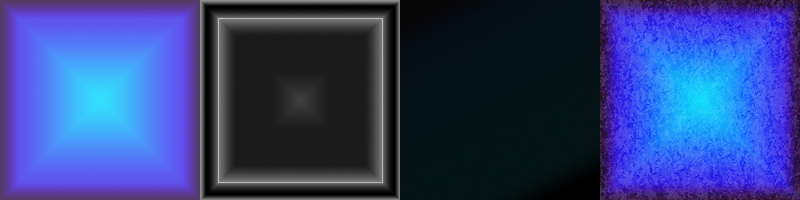
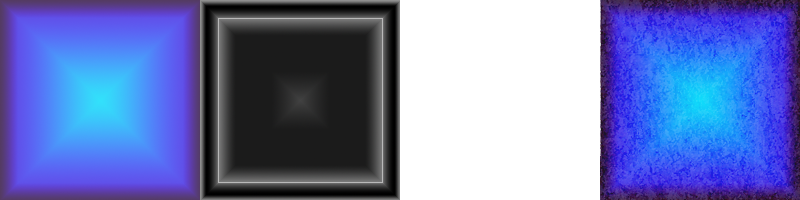
committing before merge, collision is my hell

Changed region(s): [[0.5, 0.0, 0.75, 1.0]]

diff --git a/SSR/SSR/game.cpp b/SSR/SSR/game.cpp
@@ -318,6 +318,7 @@ void Game::render()
 
 	else if (gameState == GameState::GAME_MODE)
 	{
+		m_window.draw(bgSprite);
 		m_window.setView(camera);
 	gameGrid.render(m_window);
 
@@ -349,38 +350,60 @@ void Game::render()
 		m_window.setView(m_window.getDefaultView());
 		m_window.draw(m_gameOverMessage);
 	}
-
+	m_window.draw(overlay);
 	m_window.display();
 }
 
 void Game::handleCollisions()
 {
 	sf::FloatRect workerTempRect;
+	float tempX=0, tempY=0;
 	//player block
 	float p1Rad = p1.getRadius();
 	pRect->top -= p1Rad;
 	pRect->left -= p1Rad;
-	int collisionBump = 2;
+	int collisionBump = 5;
 	tempDisplacement=&gameGrid.checkCollisionRectangleVector(*pRect);
 		pRect->top += p1Rad;
+		
 		pRect->left += p1Rad;
-	if (tempDisplacement->y != 0 || tempDisplacement->x != 0) {
-	//std::cout << "x: " << tempDisplacement->left << " y: " << tempDisplacement->top << std::endl;
-		/*if (tempDisplacement->height != pRect->height)
-		{
-		pRect->top-=tempDisplacement->height;
-		}
-		if (tempDisplacement->width != pRect->width)
-		{
-		pRect->left -= tempDisplacement->width;
-		}*/
-		//pRect->left += tempDisplacement->width*tempDisplacement->left;
-		//pRect->top += tempDisplacement->height*tempDisplacement->top;
-		pRect->top += collisionBump*tempDisplacement->y;
-		pRect->left += collisionBump*tempDisplacement->x;
-		p1.getPos().x = pRect->left;
-		p1.getPos().y = pRect->top;
+		tempX= tempDisplacement->x;
+		tempY = tempDisplacement->y;
+
+	if (tempX == 0) {
+
+		p1.xStop = false;
 	}
+	else if(tempX >= -200 && tempX <= 200)
+	{
+
+		
+		pRect->left += tempX;
+		p1.getPos().x = pRect->left;
+		p1.xStop = true;
+		
+
+
+
+	}
+
+
+	if (tempY == 0) {
+		p1.yStop = false;
+
+	}
+	else if(tempY >= -200 && tempY <= 200)
+	{
+
+		pRect->top += tempY;
+
+		p1.yStop = true;
+		p1.getPos().y = pRect->top;
+		
+
+
+	}
+
 	//end of player block
 	for (size_t i = 0; i < workers.size(); i++)
 	{
@@ -447,6 +470,10 @@ void Game::setupSprite()
 	m_hpGauge = sf::RectangleShape(sf::Vector2f(p1.getHP() * 8.0f, 20));
 	m_hpGauge.setPosition(sf::Vector2f(m_hpGaugeBack.getPosition().x + 2, m_hpGaugeBack.getPosition().y + 2));
 	m_hpGauge.setFillColor(sf::Color::Red);
-
+	crtOverlay.loadFromFile("ASSETS\\IMAGES\\retroOverlay.png");
+	bg.loadFromFile("ASSETS\\IMAGES\\bg.png");
+	overlay.setTexture(crtOverlay);
+	overlay.setPosition(0, 0);
+	bgSprite.setTexture(bg);
 	p1.SetupSprite();
 }

diff --git a/SSR/SSR/Grid.cpp b/SSR/SSR/Grid.cpp
@@ -89,10 +89,6 @@ void Grid::update()
 {
 }
 
-void Grid::render()
-{
-	std::cout << "defunct renderer caled"<<std::endl;
-}
 
 void Grid::render(sf::RenderWindow & win)
 {	
@@ -117,9 +113,10 @@ sf::Vector2f& Grid::checkCollisionRectangleVector(sf::FloatRect rect)
 {
 	//return sf::Vector2f();
 	sf::Vector2f temp;
+	int displacement = 2;
 	for (size_t i = 0; i < collisionVec.size(); i++)
 	{
-		if (!collisionVec[i]->rect.intersects(rect))
+		if (!collisionVec[i]->rect.intersects(rect,CollisionRect))
 		{
 			temp.x = 0;
 			temp.y = 0;
@@ -128,19 +125,19 @@ sf::Vector2f& Grid::checkCollisionRectangleVector(sf::FloatRect rect)
 		{
 			if (rect.top + rect.height / 2 > collisionVec[i]->center.y)
 			{
-				temp.y = +1;
+				temp.y = displacement*CollisionRect.height;
 			}
 			else
 			{
-				temp.y = -1;
+				temp.y = -1*displacement * CollisionRect.height;
 			}
 			if (rect.left + rect.width / 2 > collisionVec[i]->center.x)
 			{
-				temp.y = 1;
+				temp.x = displacement * CollisionRect.width;
 			}
 			else
 			{
-				temp.y = -1;
+				temp.x = -1*displacement* CollisionRect.width;
 			}
 			return temp;
 		}

diff --git a/SSR/SSR/Player.cpp b/SSR/SSR/Player.cpp
@@ -47,8 +47,23 @@ void Player::Update()
 	{
 		velocity /= frictionDiv;
 	}
+	if (!xStop)
+	{
 	position.x += velocity * std::sin(orientation * pi / 180);
+	}
+	else
+	{
+		int i =1;
+	}
+	if (!yStop)
+	{
 	position.y -= velocity * std::cos(orientation * pi / 180);
+	}
+	else
+	{
+		int i=1;
+	}
+
 	rect.top = position.y;
 	rect.left = position.x;
 }
@@ -196,7 +211,7 @@ void Player::SetupSprite()
 	spr.setScale(sf::Vector2f(0.5f, 0.5f));
 	spr.setOrigin(texture.getSize().x / 2, texture.getSize().y / 2);
 	origin = sf::Vector2f(texture.getSize().x / 2, texture.getSize().y / 2);
-	radius = texture.getSize().x / 2.5;
+	radius = texture.getSize().x / 3.5f;
 	rect.width = radius * 2;
 	rect.height = radius * 2;
 }

diff --git a/SSR/SSR/game.h b/SSR/SSR/game.h
@@ -24,7 +24,10 @@ private:
 	void render();
 	void handleCollisions();
 	void checkStateChange();
-	
+	sf::Sprite overlay;
+	sf::Texture crtOverlay;
+	sf::Sprite bgSprite;
+	sf::Texture bg;
 	void setupFontAndText();
 	void setupSprite();
 	void initializeObjects();

diff --git a/SSR/SSR/Player.h b/SSR/SSR/Player.h
@@ -34,6 +34,7 @@ public:
 	sf::Vector2f&getPos();
 	sf::Vector2f&getOrigin();
 	sf::FloatRect&getRect();
+		bool xStop = false, yStop = false;
 private:
 	float pi = 3.14159265359f;
 

diff --git a/SSR/SSR/Grid.h b/SSR/SSR/Grid.h
@@ -34,5 +34,6 @@ private:
 	void testingAssignMethod();
 	int tileSize;
 	Levels lvlSet;
+	sf::FloatRect CollisionRect;
 };
 
